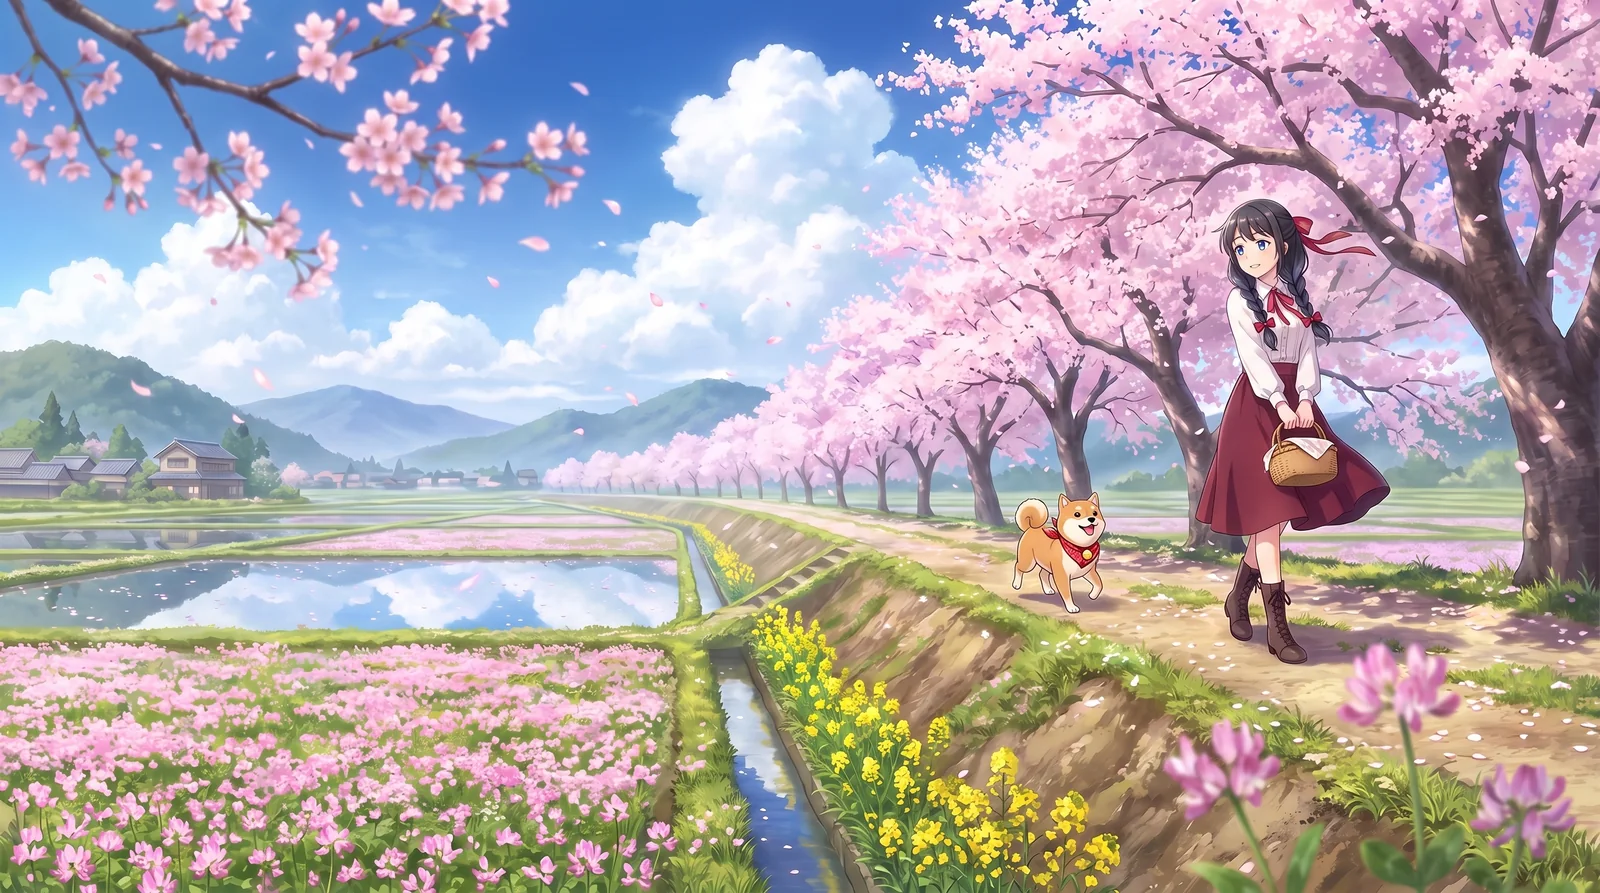
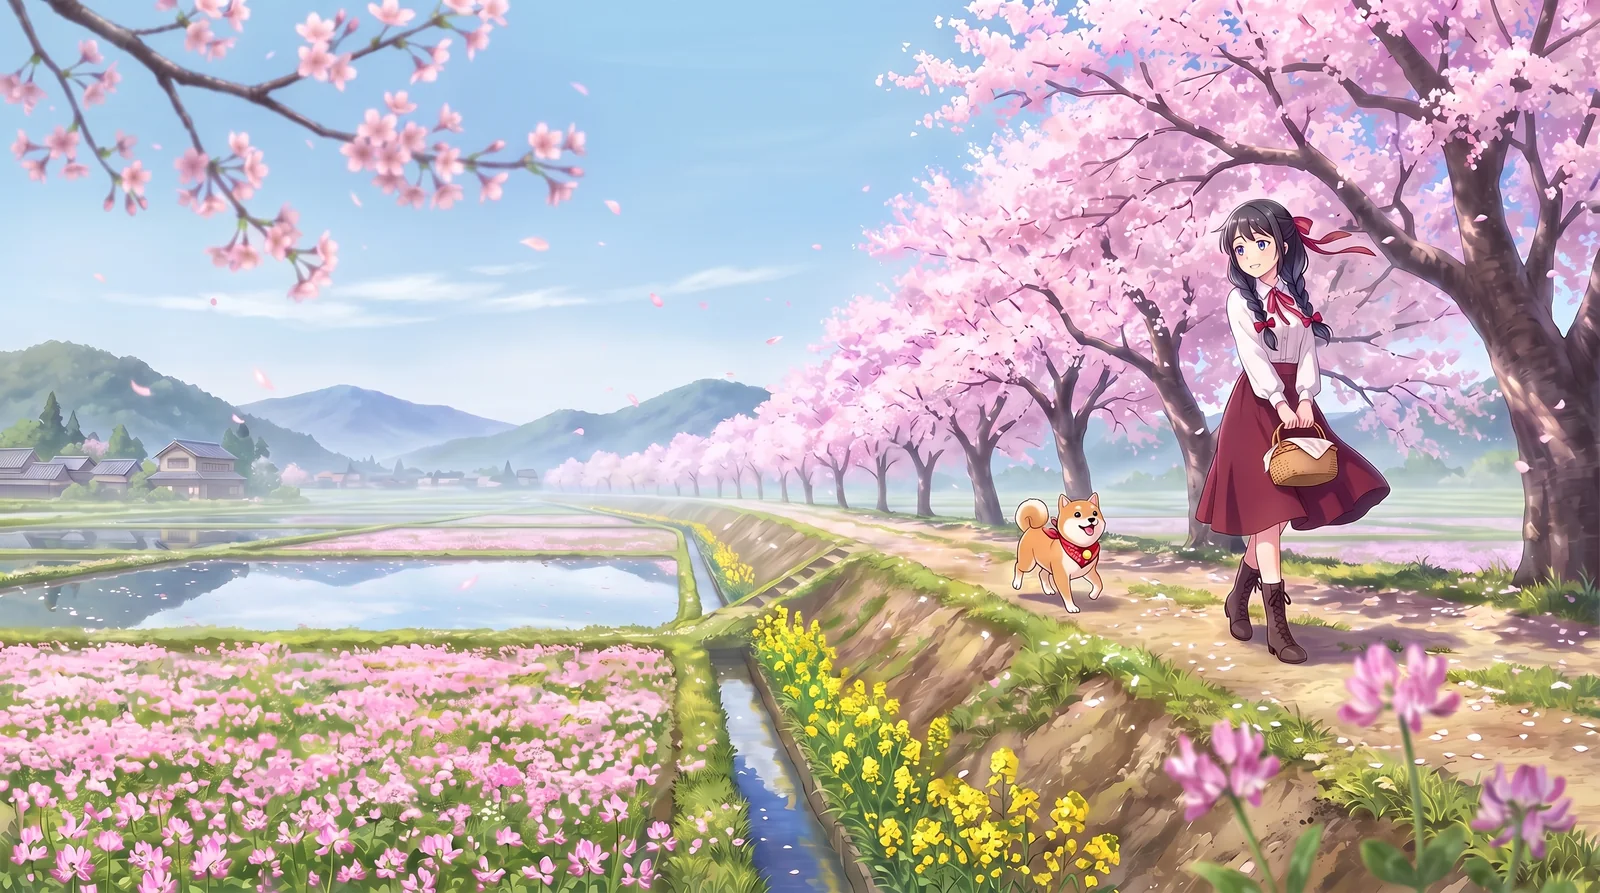
ストーリー画面の風景の空を春の霞んだ空に（story-walk-v4・追加の生成1回。入道雲は夏らしかった）
Claude-Session: https://claude.ai/code/session_01NKDN7CitDB3zmaNfEFx1kw

diff --git a/docs/review-2026-10-05.md b/docs/review-2026-10-05.md
@@ -105,3 +105,4 @@
 - **生成3回目（許可の最後）**：`story-walk-v2`（春・田植え前。桜並木の土手道・れんげと水を張った田・菜の花。構図A）に差し替え、風景の下の一言を消した（アマネさん「目を閉じた笑顔がいや」「構図がつまらない」「春なので田植え前」）。
   頼んだのと違う所：主人公が右寄りで、振り返らずに前を向いて歩いている・三つ編みではなく髪を下ろしている。目は開いている
 - **髪型だけ直す（追加の許可1回）**：`story-walk-v3`（v2 をそのまま、髪だけ立ち絵と同じ赤いリボンの三つ編みに。`prompts/game/story-walk-hair.txt`）
+- **空だけ直す（追加の許可1回）**：`story-walk-v4`（v3 の入道雲を、春の霞んだ空と薄い雲に。`prompts/game/story-walk-sky.txt`）
